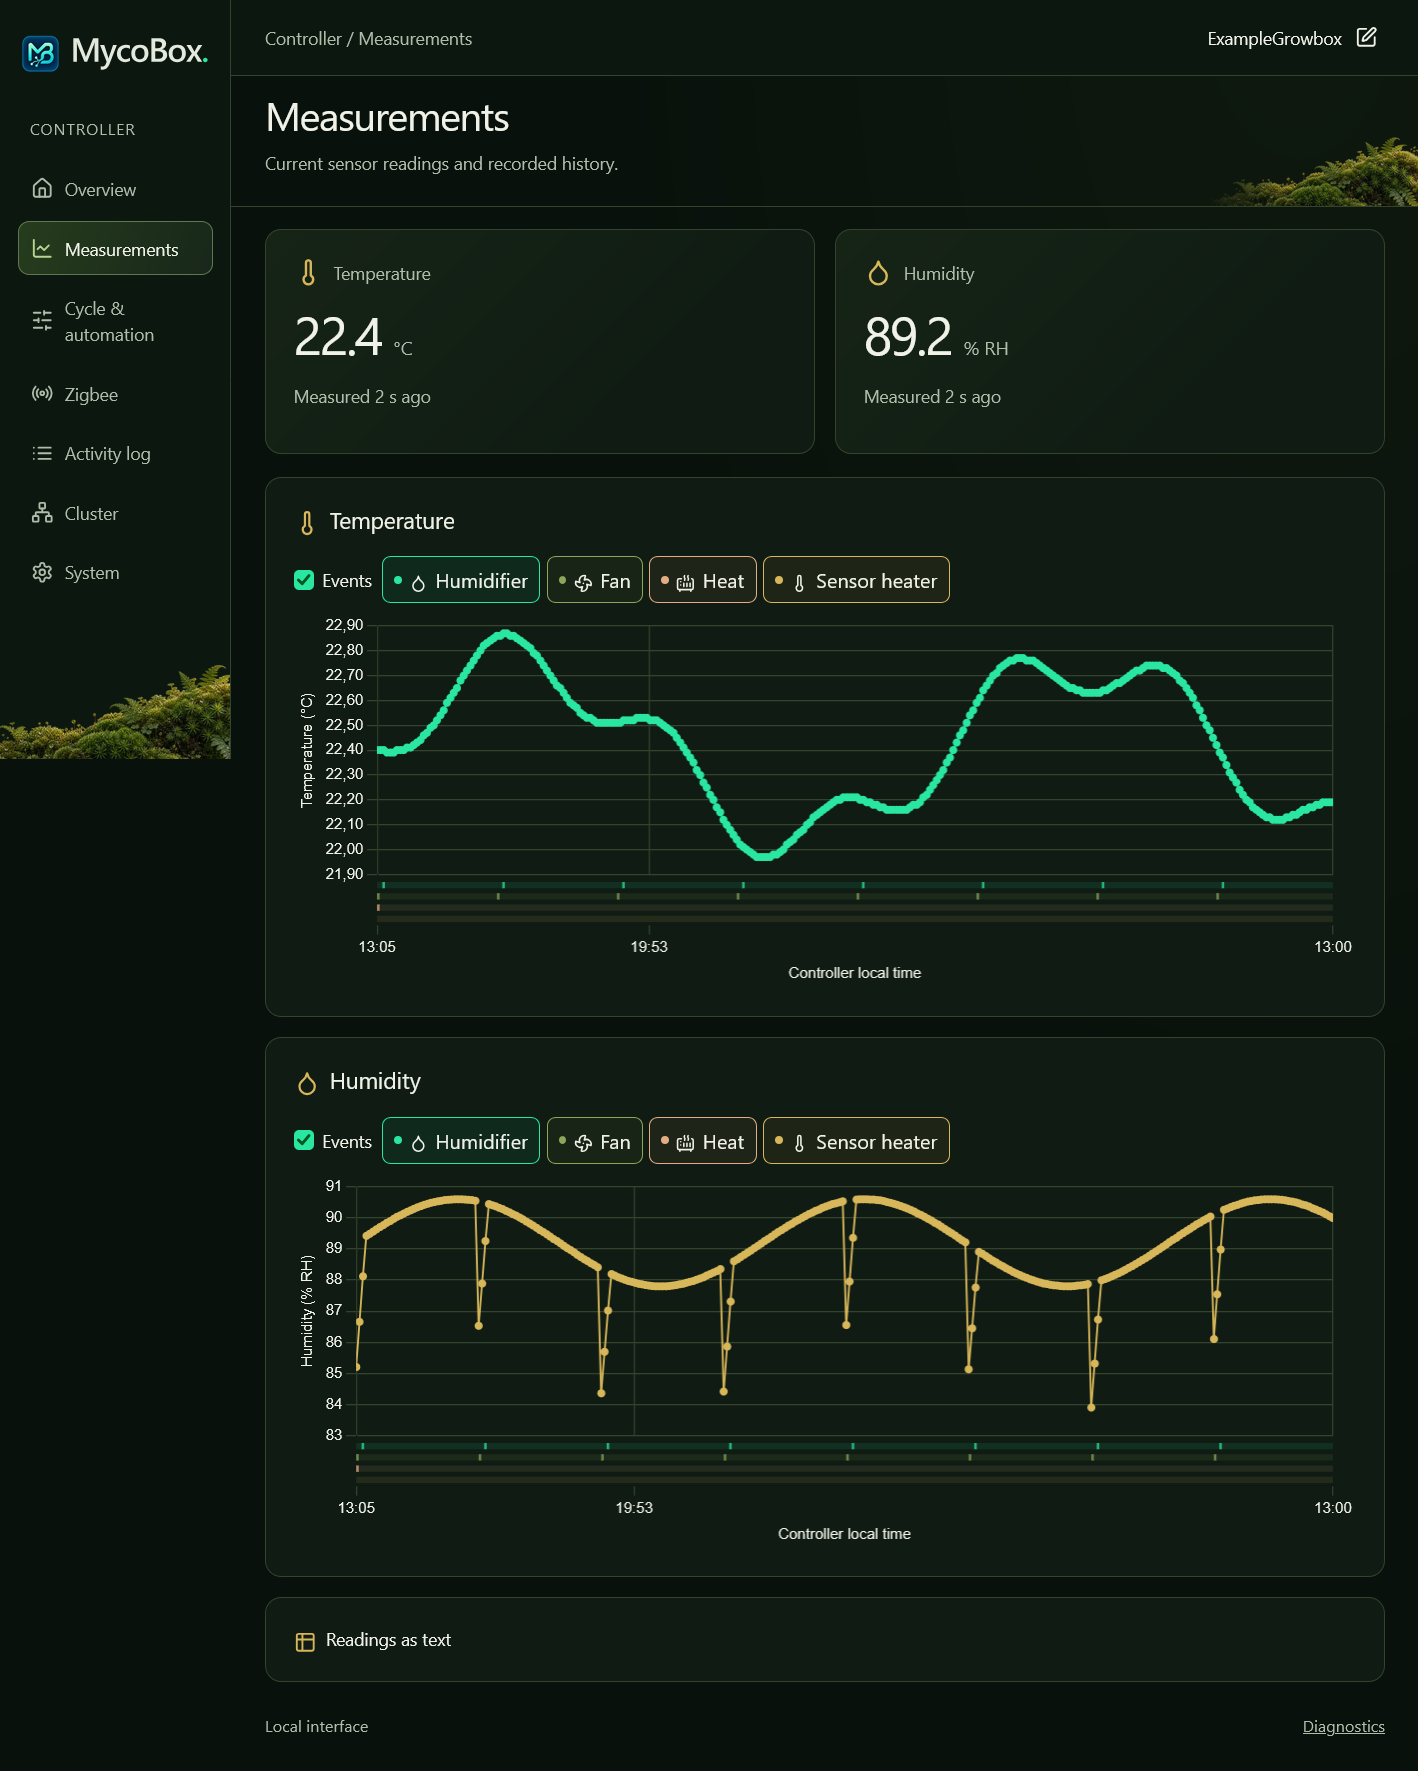
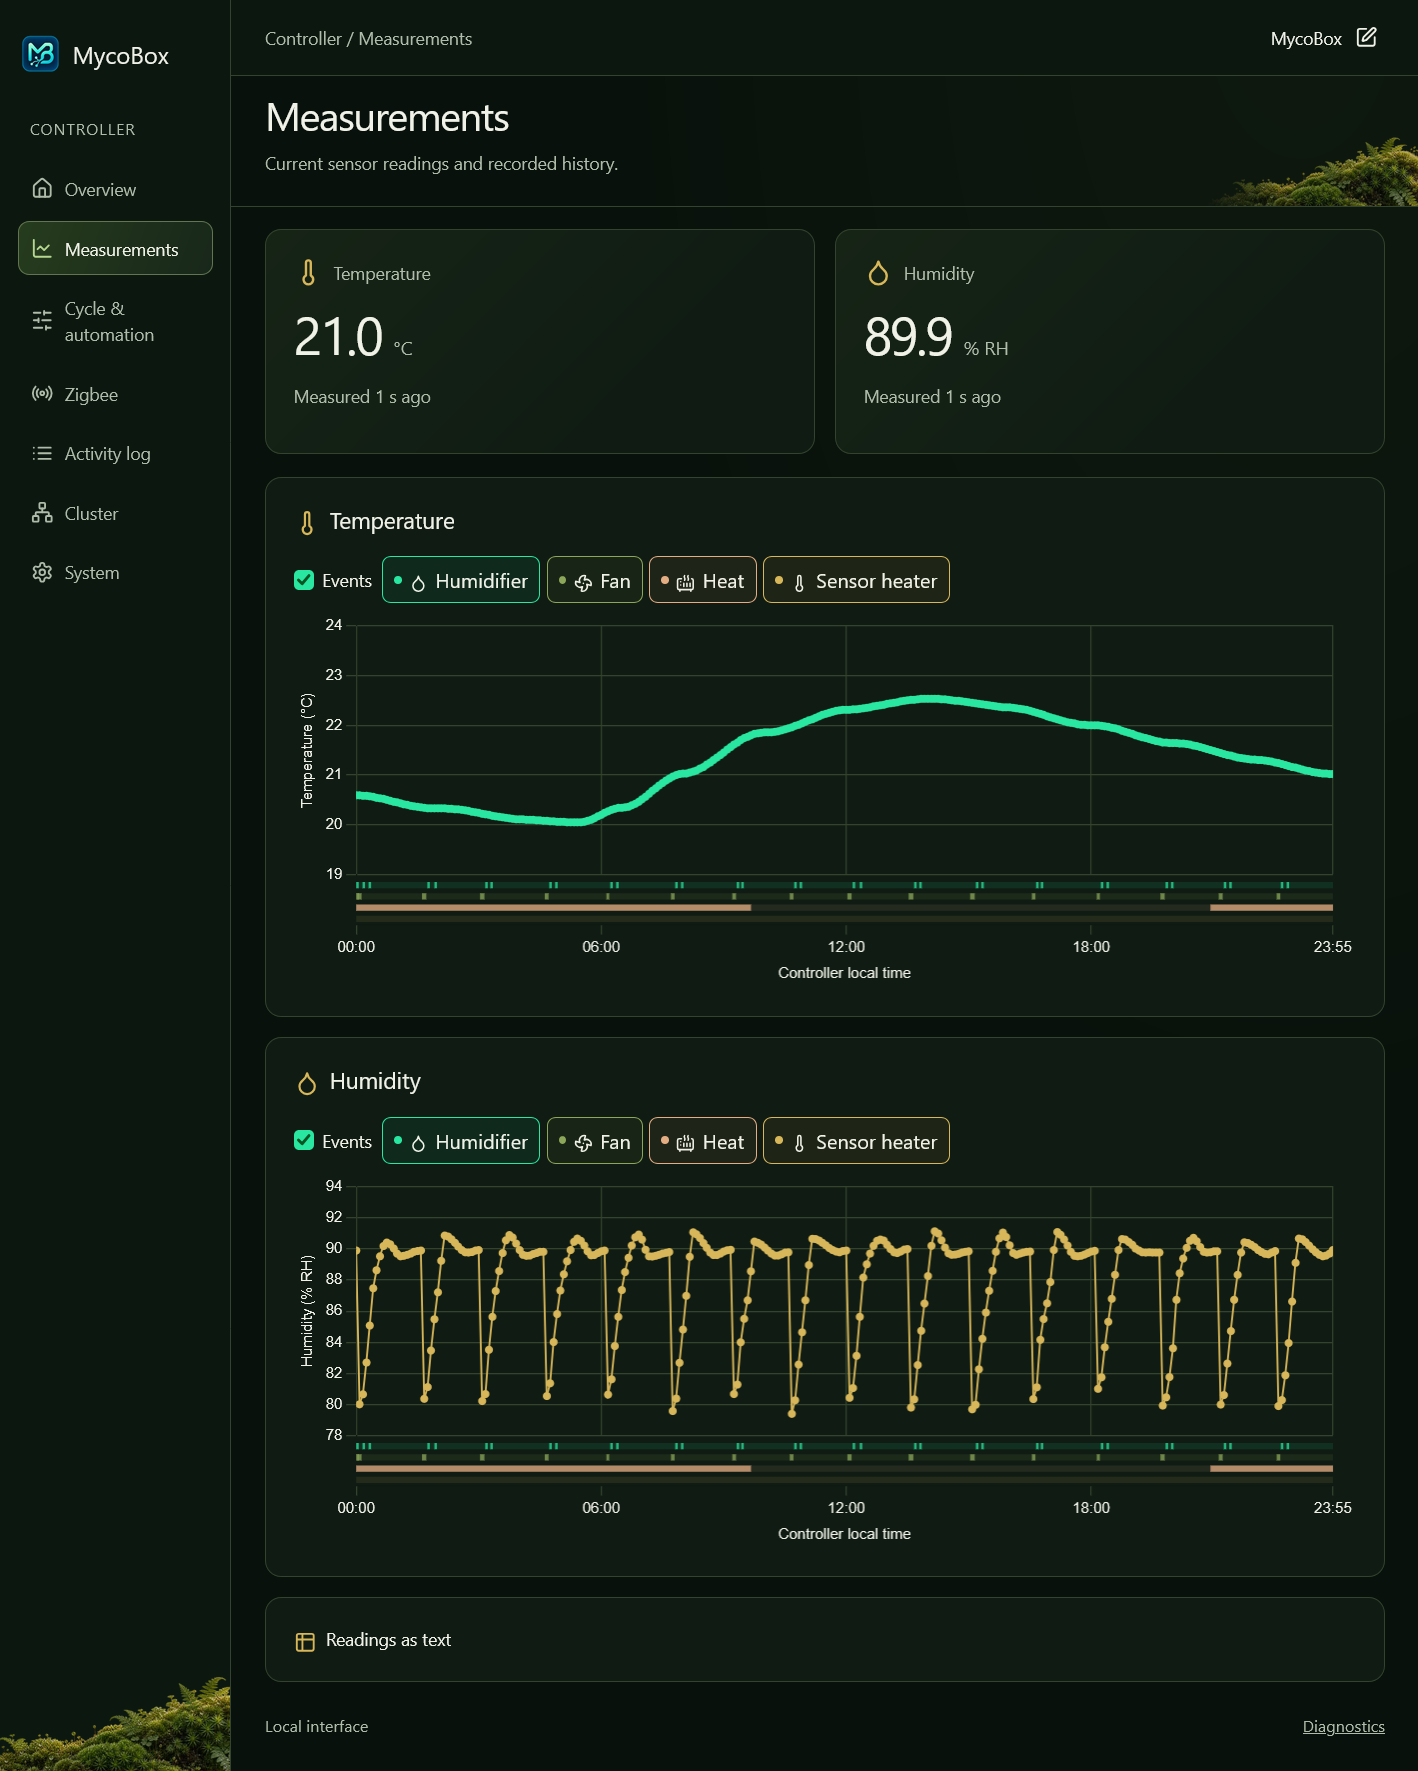
Restore the previous temperature and humidity screenshots
Restore the earlier chart captures without changing the current branding or device firmware. Clarify which interface images are earlier captures and which use sample data.

diff --git a/index.html b/index.html
@@ -77,7 +77,7 @@
           <figcaption><div><strong>Updates through the local interface.</strong><p>Use System for Main Controller updates and Zigbee for Zigbee Controller updates.</p></div><a href="https://github.com/Moffefe/MycoBox/blob/main/docs/firmware-update.md">Update instructions <span aria-hidden="true">↗</span></a></figcaption>
         </figure>
       </div>
-      <div class="context-row"><p>Interface examples use sample data. Available features depend on installed firmware.</p><a class="text-link" href="https://github.com/Moffefe/MycoBox/blob/main/docs/web-interface.md">Read the interface guide <span aria-hidden="true">↗</span></a></div>
+      <div class="context-row"><p>Screenshots illustrate the interface. Available features depend on installed firmware.</p><a class="text-link" href="https://github.com/Moffefe/MycoBox/blob/main/docs/web-interface.md">Read the interface guide <span aria-hidden="true">↗</span></a></div>
     </section>
 
     <section class="automation-section" id="automation" aria-labelledby="automation-title">

diff --git a/media/web-ui/README.md b/media/web-ui/README.md
@@ -1,9 +1,9 @@
 # Interface images
 
-These images show the current MycoBox interface with example data.
+`measurements.png` and `sensors.png` are earlier interface captures, retained to preserve their previous temperature and humidity presentation. Their headers show the earlier branding.
 
-The pages are rendered from the project's production page renderer and local UI assets in Firefox. Host adapters supply deterministic sample measurements, schedules, device assignments and firmware information. The examples do not represent a connected controller or hardware validation.
+The other images are rendered from the project's current page renderer and local UI assets in Firefox. Host adapters supply example measurements, schedules, device assignments and firmware information.
 
-The mobile image shows the responsive interface in a 487 CSS-pixel browsing context. The icon is unchanged; the wordmark uses the same outlined lettering as the public project branding.
+These illustrations do not establish hardware performance. The mobile example uses a 487 CSS-pixel viewport.
 
 For the meaning of the controls and states, see the [interface guide](../../docs/web-interface.md).

diff --git a/docs/web-interface.md b/docs/web-interface.md
@@ -2,7 +2,7 @@
 
 Open the controller's local address in a browser and sign in with your administrator account. The interface and its assets are stored on MycoBox and work without internet. For first access, see [Getting started](getting-started.md).
 
-Screenshots in these guides use sample data; they illustrate the interface rather than a specific installation.
+Screenshots include earlier captures and examples with sample data; they illustrate the interface rather than a specific installation.
 
 ## Navigation
 

diff --git a/README.md b/README.md
@@ -17,7 +17,7 @@ MycoBox brings environmental monitoring and equipment control to one web interfa
 
 ## Your growbox at a glance
 
-Interface examples below use sample data.
+Interface screenshots include earlier captures and examples with sample data.
 
 <p align="center">
   <img src="media/web-ui/dashboard.png" alt="MycoBox Overview with Growbox visualization, current readings and cycle settings" width="1000">
